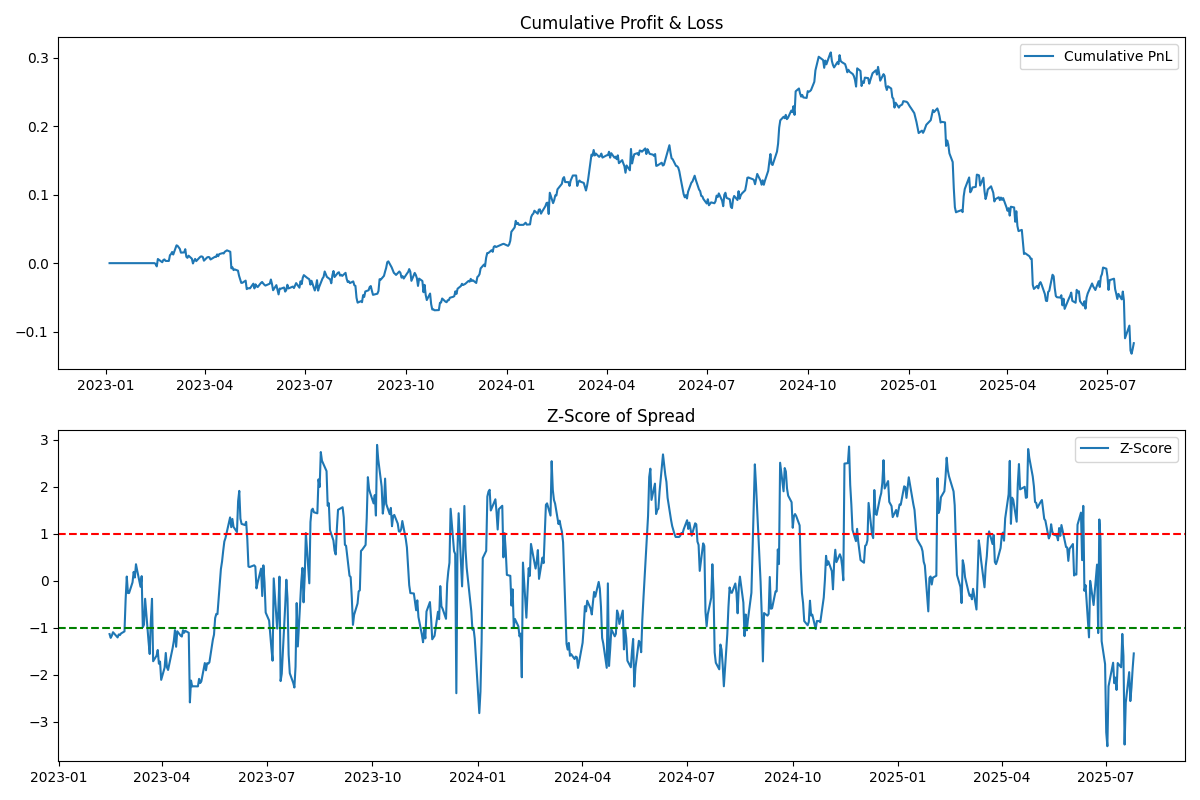
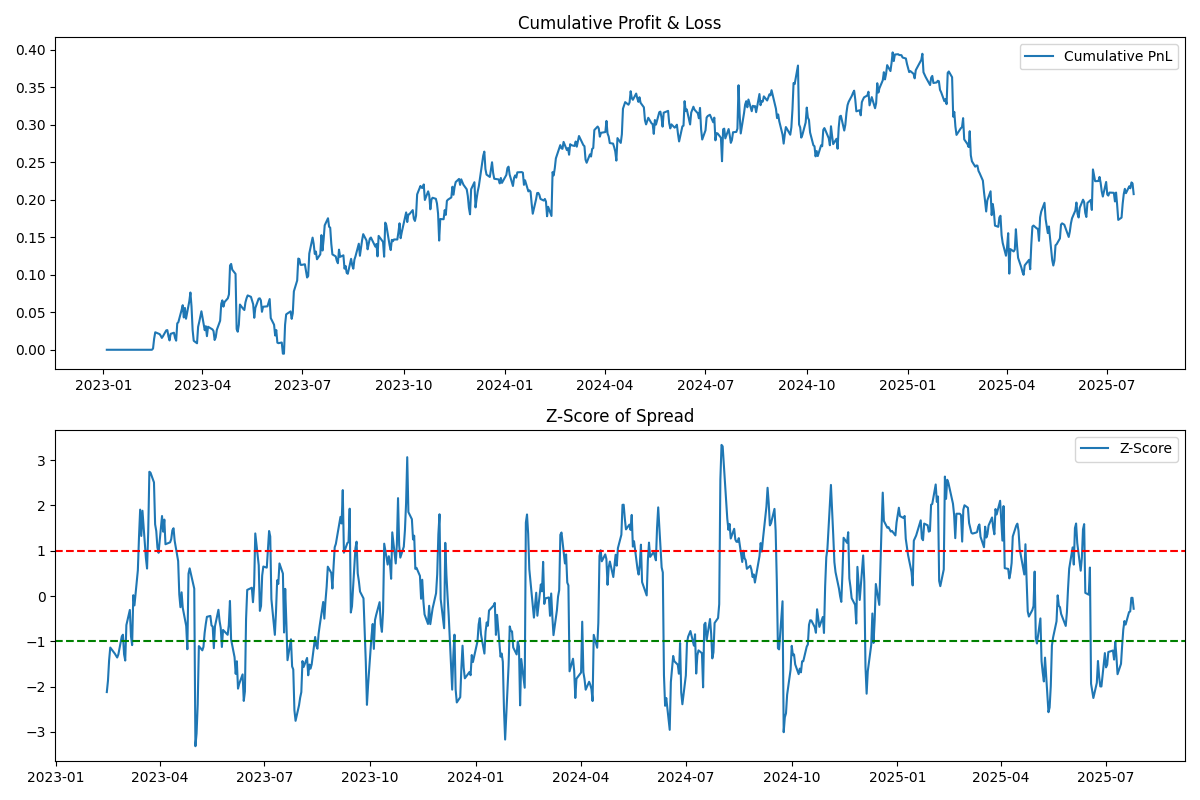
Testing many stocks for cointegration

diff --git a/main.py b/main.py
@@ -1,0 +1,43 @@
+from utils.backtest import *
+from utils.plot_results import *
+from utils.pairs_tester import *
+from data import fetch_data
+
+def trade_pair():
+    stock_ticker1 = input("Enter first stock symbol --> ")
+    stock_ticker2 = input("Enter second stock symbol --> ")
+    df = fetch_data.fetch_pair_data(stock_ticker1, stock_ticker2)
+    df.to_csv("data/raw-data.csv")
+
+    spread = df[stock_ticker1] - df[stock_ticker2]
+    zscore = calculate_zscore(spread)
+    signals = generate_signals(zscore)
+    cum_pnl, pnl = backtest(df, signals)
+    plot_results(cum_pnl, zscore, signals)
+
+if __name__ == "__main__":
+    tickers = [
+        "AAPL", "MSFT", "GOOGL", "META", "V", "MA", "JPM", "BAC", "XOM", "CVX",
+        "KO", "PEP", "WMT", "TGT", "COST", "BJ", "NVDA", "AMD", "UNH", "HUM",
+        "HD", "LOW", "DIS", "PARA", "PYPL", "SQ", "F", "GM", "UAL", "DAL",
+        "NKE", "UAA", "GS", "MS", "LUV", "JBLU", "QCOM", "AVGO", "T", "VZ",
+        "ABT", "MDT", "BMY", "PFE", "EBAY", "ETSY", "DD", "DOW", "RTX", "LMT",
+        "SO", "DUK", "INTC", "MU", "MMM", "HON", "SBUX", "MCD", "CRM", "NOW",
+        "CSX", "NSC", "WFC", "USB", "TGT", "DG", "AMZN", "SHOP", "BIGC", "SPGI",
+        "MCO", "ADBE", "ANSS", "ROKU", "NFLX", "PLD", "PLD", "AAL", "MAR", "HLT",
+        "C", "ABBV", "MRK", "Z", "RDFN", "TDOC", "AMWL", "TSLA", "NIO", "BP",
+        "SHEL", "CI", "CNC", "FDX", "UPS", "CHRW", "EXPD"
+    ]
+    correlation_matrix = compute_correlation_matrix(tickers[:40])
+    cointegration_matrix = compute_cointegration_matrix(tickers[:40])
+
+    plot_heatmap(correlation_matrix, "Correlation matrix for 100 stocks")
+    plot_heatmap(cointegration_matrix, "Cointegration p-values for 100 stocks")
+
+    print(find_cointegrated_pairs(tickers))
+
+    continue_pairs_trade = True
+    while continue_pairs_trade:
+        trade_pair()
+        user_response = input("Continue trading pairs? (Y/N) ")
+        continue_pairs_trade = True if user_response == "Y" else False
